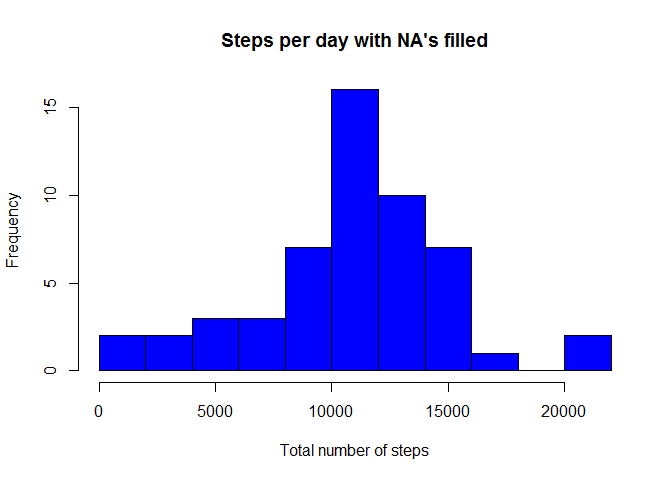
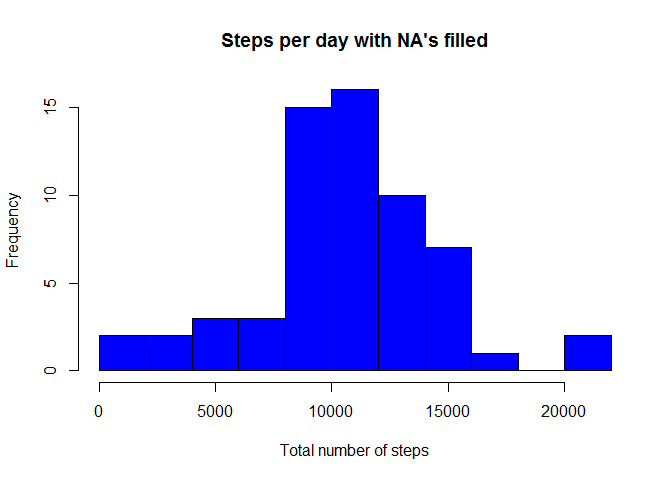
the last part done

Changed region(s): [[0.4062, 0.2188, 0.5, 0.5312]]

diff --git a/PA1_template.html b/PA1_template.html
@@ -123,8 +123,8 @@ num_na&lt;-length(data$steps[stepnas])</code></pre>
 <p>There are 2304 observations with no data.<br />Lets complete the data using the average number of steps calculated in the previous section. We create a new data frame as asked and fill the NA’s with the averages.</p>
 <pre class="r"><code>data2&lt;-data
 indices&lt;-which(is.na(data$steps)==TRUE)
-for (i in length(indices)){
-      data2$steps[i]&lt;-avg_steps[i]
+for (i in 1:length(indices)){
+      data2$steps[indices[i]]&lt;-rep(cbind(avg_steps,avg_steps),61)[i]
 }</code></pre>
 <p>Now the exact same is done to data2 as in the first section for data:</p>
 <pre class="r"><code>dates2&lt;-unique(data2$date)
@@ -138,13 +138,62 @@ for(i in 1:length(dates2)){
 <pre class="r"><code>hist(nSteps2,main=&quot;Steps per day with NA's filled&quot;,
      xlab=&quot;Total number of steps&quot;,
      col=&quot;blue&quot;,breaks=15)</code></pre>
[2 lines of base64/hex data omitted]
 <p>The mean and the median are calculated the same way as in the first case:</p>
 <pre class="r"><code>mean2&lt;-mean(nSteps2)
 mean2&lt;-format(mean,scientific=FALSE)
 median2&lt;-median(nSteps2)
 median2&lt;-format(median2,scientific=FALSE)</code></pre>
-<p>The mean is 10766.19 and the median is NA. There’s no difference to what was calculated earlier with the NA’s removed. The histograms can not be distinquished either. ## Are there differences in activity patterns between weekdays and weekends?</p>
+<p>The mean is 10766.19 and the median is 10395. There’s no difference between the means, but the median is smaller than what was calculated earlier. The histograms looks different also.</p>
+</div>
+<div id="are-there-differences-in-activity-patterns-between-weekdays-and-weekends" class="section level2">
+<h2>Are there differences in activity patterns between weekdays and weekends?</h2>
+<p>To get the weekdays for distinguishing the weekdays and weekends, function “weekdays” is needed. Also, the variable date in the data needs to be converted into POSIxlt using function strptime. strptime is given two parameters: the date column (the values are converted from factor into character strings using as.character), and a format (a regular expression) indicating which parts are the year, month and day. Note that the data with the filled in values (NA’s replaced with means, data2) is used here:</p>
+<pre class="r"><code>data2$date&lt;-strptime(as.character(data2$date), &quot;%Y-%m-%d&quot;)</code></pre>
+<p>To get the day names from weekdays() in english, I need to set the locale using the following command:</p>
+<pre class="r"><code>Sys.setlocale(&quot;LC_TIME&quot;, &quot;English&quot;)</code></pre>
+<pre><code>## [1] &quot;English_United States.1252&quot;</code></pre>
+<p>Next a factor variable indicating whether the date is a weekday or weekend is created using a simple comparison if the day given by function weekdays is either Saturday or Sunday or not:</p>
+<pre class="r"><code>data2$period&lt;-ifelse(weekdays(data2$date)==&quot;Saturday&quot;
+        |weekdays(data2$date)==&quot;Sunday&quot;,&quot;Weekend&quot;,&quot;Weekday&quot;)
+data2$period&lt;-factor(data2$period)</code></pre>
+<p>Then the average step amounts for each interval are calculated for the filled data. We subset the data according whether the date is on a weekday or weekend and calculate the averages for both separately.</p>
+<pre class="r"><code>avg_steps_int_wd&lt;-integer()
+
+for(i in 1:length(intervals)){
+    goodi&lt;-(data2$interval==intervals[i]
+            &amp;data2$period==&quot;Weekday&quot;)
+    avg_steps_int_wd[i]&lt;-mean(data2$steps[goodi])
+}
+
+avg_steps_int_wknd&lt;-integer()
+
+for(i in 1:length(intervals)){
+    goodi&lt;-(data2$interval==intervals[i]
+            &amp;data2$period==&quot;Weekend&quot;)
+    avg_steps_int_wknd[i]&lt;-mean(data2$steps[goodi])
+}</code></pre>
+<p>Next the data needs to be formed into a new data frame to make it easier to plot. To do this, first the vectors need to be forced into column form and new vectors need to be constructed. The idea is to put data of the weekdays on the first rows, and of the weekends to the last ones. This way, it is easy to later add a factor column to group the values. Also, the intervals are added twice, because the order of them for the average steps calculated earlier is the same. Therefore it is known the each row has the right label for the interval and the period (week or weekend). There are equally many means for both, so it is known that the number of rows is twice the number of the unique intervals.</p>
+<pre class="r"><code>avg_steps_int_wd&lt;-cbind(avg_steps_int_wd)
+avg_steps_int_wknd&lt;-cbind(avg_steps_int_wknd)
+interval&lt;-cbind(unique(intervals))
+avg_steps&lt;-rbind(avg_steps_int_wd,avg_steps_int_wknd)
+interval&lt;-cbind(unique(interval))
+interval&lt;-rbind(interval,interval)</code></pre>
+<p>Then, a data frame is constructed for the plotting. Also, a third column is added to group the intervals and the columns are named properly:</p>
+<pre class="r"><code>meansteps&lt;-cbind(interval,avg_steps)
+meansteps&lt;-data.frame(meansteps)
+weekday&lt;-cbind(rep(&quot;weekday&quot;,length(intervals)))
+weekend&lt;-cbind(rep(&quot;weekend&quot;,length(intervals)))
+meansteps$period&lt;-factor(rbind(weekday,weekend))
+names(meansteps)[1:2]&lt;-c(&quot;Interval&quot;,&quot;Average_Steps&quot;)</code></pre>
+<p>The next code plots the average number of steps for each interval. The averages are plotted separately for weekdays and weekends in different panels and the period factor is used for this. The lattice library need to be loaded first:</p>
+<pre class="r"><code>library(lattice)
+xyplot(Average_Steps~Interval|period,data=meansteps,
+      type=&quot;l&quot;,layout=c(1,2),
+      xlab=&quot;Interval&quot;,ylab=&quot;Number of Steps&quot;)</code></pre>
[1 lines of base64/hex data omitted]
+<p>The figures show, that the activity patterns look different during the weekends than during the weeks. It seems that the number of steps taken is more uniformly distributed throughout the day on weekends. There is a peak in the morning in the steps taken on the weekdays.</p>
 </div>
 
 

diff --git a/PA1_template.md b/PA1_template.md
@@ -108,8 +108,8 @@ Lets complete the data using the average number of steps calculated in the previ
 ```r
 data2<-data
 indices<-which(is.na(data$steps)==TRUE)
-for (i in length(indices)){
-      data2$steps[i]<-avg_steps[i]
+for (i in 1:length(indices)){
+      data2$steps[indices[i]]<-rep(cbind(avg_steps,avg_steps),61)[i]
 }
 ```
 
@@ -145,5 +145,94 @@ mean2<-format(mean,scientific=FALSE)
 median2<-median(nSteps2)
 median2<-format(median2,scientific=FALSE)
 ```
-The mean is 10766.19 and the median is NA. There's no difference to what was calculated earlier with the NA's removed. The histograms can not be distinquished either.
+The mean is 10766.19 and the median is 10395. There's no difference between the means, but the median is smaller than what was calculated earlier. The histograms looks different also.  
+
 ## Are there differences in activity patterns between weekdays and weekends?
+To get the weekdays for distinguishing the weekdays and weekends, function "weekdays" is needed. Also, the variable date in the data needs to be converted into POSIxlt using function strptime. strptime is given two parameters: the date column (the values are converted from factor into character strings using as.character), and a format (a regular expression) indicating which parts are the year, month and day. Note that the data with the filled in values (NA's replaced with means, data2) is used here:
+
+
+```r
+data2$date<-strptime(as.character(data2$date), "%Y-%m-%d")
+```
+
+To get the day names from weekdays() in english, I need to set the locale using the following command:
+
+
+```r
+Sys.setlocale("LC_TIME", "English")
+```
+
+```
+## [1] "English_United States.1252"
+```
+
+Next a factor variable indicating whether the date is a weekday or weekend is created using a simple comparison if the day given by function weekdays is  either Saturday or Sunday or not:
+
+
+```r
+data2$period<-ifelse(weekdays(data2$date)=="Saturday"
+		|weekdays(data2$date)=="Sunday","Weekend","Weekday")
+data2$period<-factor(data2$period)
+```
+
+Then the average step amounts for each interval are calculated for the filled data. We subset the data according whether the date is on a weekday or weekend and calculate the averages for both separately.
+
+
+```r
+avg_steps_int_wd<-integer()
+
+for(i in 1:length(intervals)){
+	goodi<-(data2$interval==intervals[i]
+	        &data2$period=="Weekday")
+	avg_steps_int_wd[i]<-mean(data2$steps[goodi])
+}
+
+avg_steps_int_wknd<-integer()
+
+for(i in 1:length(intervals)){
+	goodi<-(data2$interval==intervals[i]
+	        &data2$period=="Weekend")
+	avg_steps_int_wknd[i]<-mean(data2$steps[goodi])
+}
+```
+
+Next the data needs to be formed into a new data frame to make it easier to plot. To do this, first the vectors need to be forced into column form and new vectors need to be constructed. The idea is to put data of the weekdays on the first rows, and of the weekends to the last ones. This way, it is easy to later add a factor column to group the values. Also, the intervals are added twice, because the order of them for the average steps calculated earlier is the same. Therefore it is known the each row has the right label for the interval and the period (week or weekend). There are equally many means for both, so it is known that the number of rows is twice the number of the unique intervals. 
+
+
+```r
+avg_steps_int_wd<-cbind(avg_steps_int_wd)
+avg_steps_int_wknd<-cbind(avg_steps_int_wknd)
+interval<-cbind(unique(intervals))
+avg_steps<-rbind(avg_steps_int_wd,avg_steps_int_wknd)
+interval<-cbind(unique(interval))
+interval<-rbind(interval,interval)
+```
+
+Then, a data frame is constructed for the plotting. Also, a third column is added to group the intervals and the columns are named properly:
+
+
+```r
+meansteps<-cbind(interval,avg_steps)
+meansteps<-data.frame(meansteps)
+weekday<-cbind(rep("weekday",length(intervals)))
+weekend<-cbind(rep("weekend",length(intervals)))
+meansteps$period<-factor(rbind(weekday,weekend))
+names(meansteps)[1:2]<-c("Interval","Average_Steps")
+```
+
+The next code plots the average number of steps for each interval. The averages are plotted separately for weekdays and weekends in different panels and the period factor is used for this. The lattice library need to be loaded first:
+
+
+```r
+library(lattice)
+xyplot(Average_Steps~Interval|period,data=meansteps,
+      type="l",layout=c(1,2),
+      xlab="Interval",ylab="Number of Steps")
+```
+
+![](PA1_template_files/figure-html/unnamed-chunk-21-1.png) 
+
+The figures show, that the activity patterns look different during the weekends than during the weeks. It seems that the number of steps taken is more uniformly distributed throughout the day on weekends. There is a peak in the morning in the steps taken on the weekdays.
+
+
+
